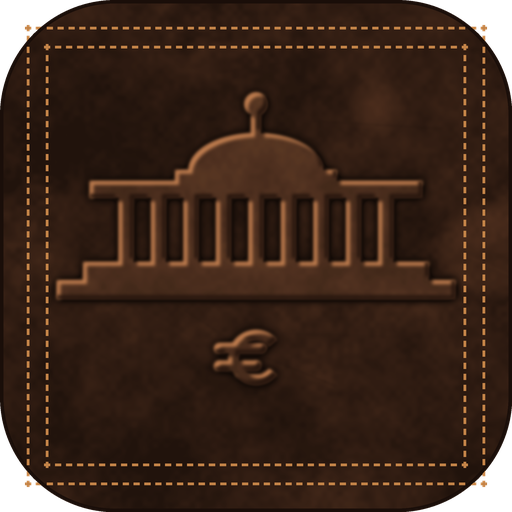
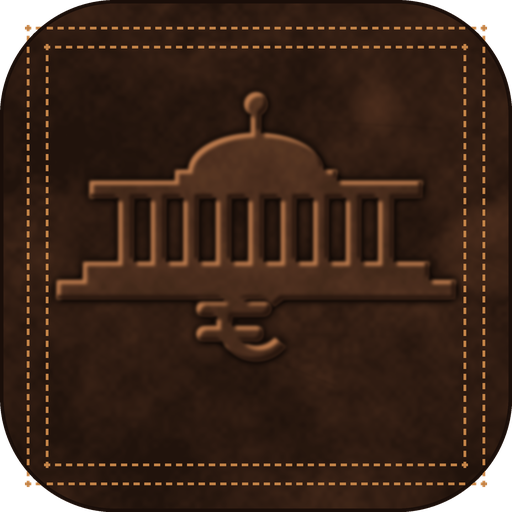
Clear sorted notes together, a square tick, and a bigger euro (#87)
Deleting five resolved notes one at a time, each behind its own confirm, is what
made the first of these worth adding. Every saved note now carries a tick: it
marks the note sorted, the row dims and strikes through, and a "Clear N sorted
items" button appears under the list. The ones still open are kept.

  ticked five of six    Cancel -> all six kept
                        Confirm -> exactly the one still open remains

The Feedback tile counts what is still open rather than everything ever filed. A
tile reading "4 bugs" over a list where all four are settled is reporting the
wrong thing.

The euro on the mark is larger — 0.155 to 0.22 of the emblem width — and tucked
under the building instead of floating below it. The overlap is derived rather
than eyeballed: the euro's top is placed one overlap-height above the step line,
so exactly EURO_OVERLAP of its height sits behind the steps and the constant can
be changed without re-tuning anything. Regenerated from tools/make-icons.py, so
the source changed and not just the pixels.

And the tick-off control is a rounded square. The native checkboxes were already
6px and the shopping list's box 7px; this was the last round one. The reminders
panel had been given a square of its own earlier, which left the same control
drawn two different ways on two screens — the radius comes from one place now,
and the reminders rule keeps only its size difference.

  ledger 8px   reminders 8px   feedback 8px   shopping 7px   native 6px

Changed region(s): [[0.375, 0.5625, 0.5625, 0.75]]

diff --git a/index.html b/index.html
@@ -1404,8 +1404,12 @@ input[type=checkbox]:focus-visible{outline:2px solid var(--accent-mid);outline-o
 .ampill.a{background:var(--pos-soft);color:var(--pos)}
 .ampill.m{background:var(--warn-soft);color:var(--warn)}
 
+/* A rounded square, like every other checkbox in the app — the native ones at
+   6px, the shopping list's at 7px. This was the last round one, and the
+   reminders panel had already been given a square of its own, which left the
+   same control drawn two different ways on two screens. */
 .tick{
-  width:26px;height:26px;flex:none;border-radius:99px;
+  width:26px;height:26px;flex:none;border-radius:8px;
   border:1.6px solid var(--line-strong);
   display:grid;place-items:center;color:transparent;
   transition:border-color .15s,background .15s,color .15s;
@@ -1735,12 +1739,22 @@ input[type=checkbox]:focus-visible{outline:2px solid var(--accent-mid);outline-o
 .fb-nav #fbBack[hidden]{display:none}
 
 .fb-row{
-  display:flex;align-items:flex-start;gap:11px;width:100%;
+  display:flex;align-items:center;gap:10px;width:100%;
   padding:11px 12px;border-radius:13px;text-align:left;
   border:1px solid var(--line);background:var(--surface-2);margin-bottom:7px;
-  transition:background .14s,border-color .14s;
+  transition:background .14s,border-color .14s,opacity .14s;
 }
 .fb-row:hover{background:var(--surface-sunk);border-color:var(--line-strong)}
+/* the row opens the note; the tick beside it settles the note. Two buttons,
+   because one cannot contain the other. */
+.fb-open{
+  flex:1;min-width:0;display:flex;align-items:center;gap:11px;text-align:left;
+}
+.fb-row .tick{margin-left:auto}
+/* Sorted, but still here until it is cleared — present enough to be found and
+   undone, quiet enough not to compete with what is still open. */
+.fb-row.done{opacity:.55}
+.fb-row.done .fb-one{text-decoration:line-through;text-decoration-thickness:1px}
 .fb-row .fb-tag{
   width:28px;height:28px;border-radius:9px;flex:none;display:grid;place-items:center;
   background:var(--surface);
@@ -2291,7 +2305,8 @@ textarea.inp{resize:vertical;min-height:76px;font-size:12.5px;font-family:var(--
 }
 .nopen:hover{background:var(--surface-2)}
 /* a rounded square here rather than the ledger's circle */
-.nrow .tick{border-radius:9px;width:27px;height:27px}
+/* the radius comes from .tick now; only the size differs here */
+.nrow .tick{width:27px;height:27px}
 .nrow .nh{font-size:16px;line-height:1;flex:none;width:20px;text-align:center}
 .nrow .nm{flex:1;min-width:0}
 .nrow .nt{font-size:14px;font-weight:500;white-space:nowrap;overflow:hidden;text-overflow:ellipsis}
@@ -3943,7 +3958,7 @@ html.locked #lockScreen::before{
 
 /* Both lines are rewritten by tools/bump-version.mjs on every release —
    edit the scheme there, not here. */
-const APP_VERSION = "2.0.27";
+const APP_VERSION = "2.0.28";
 const APP_BUILT = "2026-09-04";
 
 const KEY = "panappai.v1";
@@ -7614,12 +7629,15 @@ function renderFeedbackList(){
 
   const sub = $("#setFbSub");
   if (sub){
-    const bugs = list.filter(f => f.kind === "bug").length;
-    const ideas = list.length - bugs;
-    sub.textContent = list.length
+    /* Counts what is still open. A tile saying "3 bugs" over a list where all
+       three are sorted is reporting the wrong thing. */
+    const open = list.filter(f => !f.done);
+    const bugs = open.filter(f => f.kind === "bug").length;
+    const ideas = open.length - bugs;
+    sub.textContent = open.length
       ? [ideas ? ideas + " idea" + (ideas === 1 ? "" : "s") : "",
          bugs ? bugs + " bug" + (bugs === 1 ? "" : "s") : ""].filter(Boolean).join(", ")
-      : "Ideas and bugs";
+      : (list.length ? "All sorted" : "Ideas and bugs");
   }
 
   if (!list.length){
@@ -7627,24 +7645,67 @@ function renderFeedbackList(){
     return;
   }
 
+  const doneCount = list.filter(f => f.done).length;
+
   host.appendChild(el("div", "bl-lt", "Saved"));
   list.forEach(f => {
-    const row = el("button", "fb-row " + f.kind);
-    row.type = "button";
+    /* A div holding two buttons rather than one button, because a button cannot
+       nest inside a button — the same shape the reminder row settled on. */
+    const row = el("div", "fb-row " + f.kind + (f.done ? " done" : ""));
 
+    const open = el("button", "fb-open");
+    open.type = "button";
     const tag = el("span", "fb-tag");
     tag.innerHTML = FB_ICON[f.kind] || FB_ICON.idea;
-    row.appendChild(tag);
-
+    open.appendChild(tag);
     const txt = el("div", "fb-txt");
     txt.appendChild(el("div", "fb-one", fbHeadline(f)));
     txt.appendChild(el("div", "fb-when",
-      (f.kind === "bug" ? "Bug" : "Feedback") + " · " + dayTitle(f.at.slice(0, 10))));
-    row.appendChild(txt);
+      (f.kind === "bug" ? "Bug" : "Feedback") + " · " + dayTitle(f.at.slice(0, 10)) +
+      (f.done ? " · sorted" : "")));
+    open.appendChild(txt);
+    open.addEventListener("click", () => openFeedback(f.id));
+    row.appendChild(open);
 
-    row.addEventListener("click", () => openFeedback(f.id));
+    const tick = el("button", "tick" + (f.done ? " on" : ""));
+    tick.type = "button";
+    tick.innerHTML = '<svg viewBox="0 0 24 24" fill="none" stroke="currentColor" stroke-linecap="round" stroke-linejoin="round"><path d="M20 6L9 17l-5-5"/></svg>';
+    const lbl = f.done ? "Mark as still open" : "Mark as sorted";
+    tick.title = lbl;
+    tick.setAttribute("aria-label", lbl);
+    tick.setAttribute("aria-pressed", String(!!f.done));
+    tick.addEventListener("click", () => {
+      f.done = !f.done;
+      saveLocal();
+      renderFeedbackList();
+    });
+    row.appendChild(tick);
+
     host.appendChild(row);
   });
+
+  /* Deleting five things one at a time, each behind its own confirm, is what
+     made this worth adding. Only shown when there is something to clear. */
+  if (doneCount){
+    const clear = el("button", "btn danger sm");
+    clear.type = "button";
+    clear.style.marginTop = "12px";
+    clear.style.width = "100%";
+    clear.textContent = "Clear " + doneCount + " sorted item" + (doneCount === 1 ? "" : "s");
+    clear.addEventListener("click", async () => {
+      const ok = await askConfirm({
+        title: "Clear " + doneCount + " sorted item" + (doneCount === 1 ? "" : "s") + "?",
+        message: "The ones still open are kept. This cannot be undone.",
+        confirm: "Clear"
+      });
+      if (ok !== true) return;
+      state.feedback = (state.feedback || []).filter(f => !f.done);
+      saveLocal();
+      renderFeedbackList();
+      toast("Cleared " + doneCount + " item" + (doneCount === 1 ? "" : "s"));
+    });
+    host.appendChild(clear);
+  }
 }
 
 /** The whole of one saved item, question by question the way it was asked. */

diff --git a/sw.js b/sw.js
@@ -1,6 +1,6 @@
 /* Bump VERSION on every release: activate() purges any cache that isn't the
    current one, which is what lets a new build actually replace the old one. */
-const VERSION = "2.0.27";
+const VERSION = "2.0.28";
 const CACHE = "panappai-" + VERSION;
 
 const ASSETS = [

diff --git a/tools/make-icons.py b/tools/make-icons.py
@@ -163,11 +163,19 @@ def euro(d, cx, cy, size, weight):
                        xx + weight / 2, yy + weight / 2), fill=255)
 
 
+# How much of the euro's height sits behind the building's bottom step.
+EURO_OVERLAP = 0.20
+STEP_BOT_F = 0.40      # kept in step with parliament()'s own STEP_BOT
+
+
 def emblem_mask(S, cx, cy, w, h, esz, ew):
     m = Image.new("L", (S, S), 0)
     d = ImageDraw.Draw(m)
     parliament(d, cx, cy, w, h)
-    euro(d, cx, cy + h * 0.72, esz, ew)
+    # top of the euro = bottom of the steps, less the overlap; so its centre is
+    # half a height lower than that, which is the line solved for here.
+    ecy = cy + h * STEP_BOT_F + esz * (0.5 - EURO_OVERLAP)
+    euro(d, cx, ecy, esz, ew)
     return m
 
 
@@ -185,7 +193,11 @@ def draw(px, maskable=False):
     bw = S - inset * 2
     cy = S * (0.48 if maskable else 0.44)
     bh = bw * 0.52
-    esz = bw * 0.155
+    # The euro, larger, and tucked under the building rather than floating below
+    # it. The overlap is derived rather than eyeballed: STEP_BOT is where the
+    # building ends, so placing the euro's centre a fixed fraction of its own
+    # height below that line puts exactly EURO_OVERLAP of it behind the steps.
+    esz = bw * 0.22
     ew = max(3, int(esz * 0.19))
     off = max(3, int(S * 0.0075))
 

diff --git a/RELEASES.md b/RELEASES.md
@@ -8,6 +8,11 @@ icon beside it — a repair, something that was not there before, or something
 existing made better. Guessing that from the wording alone does not work: “a bar
 fixed along the bottom” is not a bug.
 
+## 2.0.28 — 2026-09-04
+- new: Mark a saved note as sorted, then clear all the sorted ones at once instead of deleting them one at a time
+- better: The euro on the mark is larger, and tucks under the bottom step of the building rather than floating below it
+- better: The tick-off control is a rounded square, the same as every other checkbox in the app
+
 ## 2.0.27 — 2026-09-04
 - better: The three tiles on More take less room - 25px off each tile and 26px off the sheet
 - fix: The mark stays on the top bar on every panel. It was taken away on the way to transactions or shopping, which left the bar looking like a different app's
